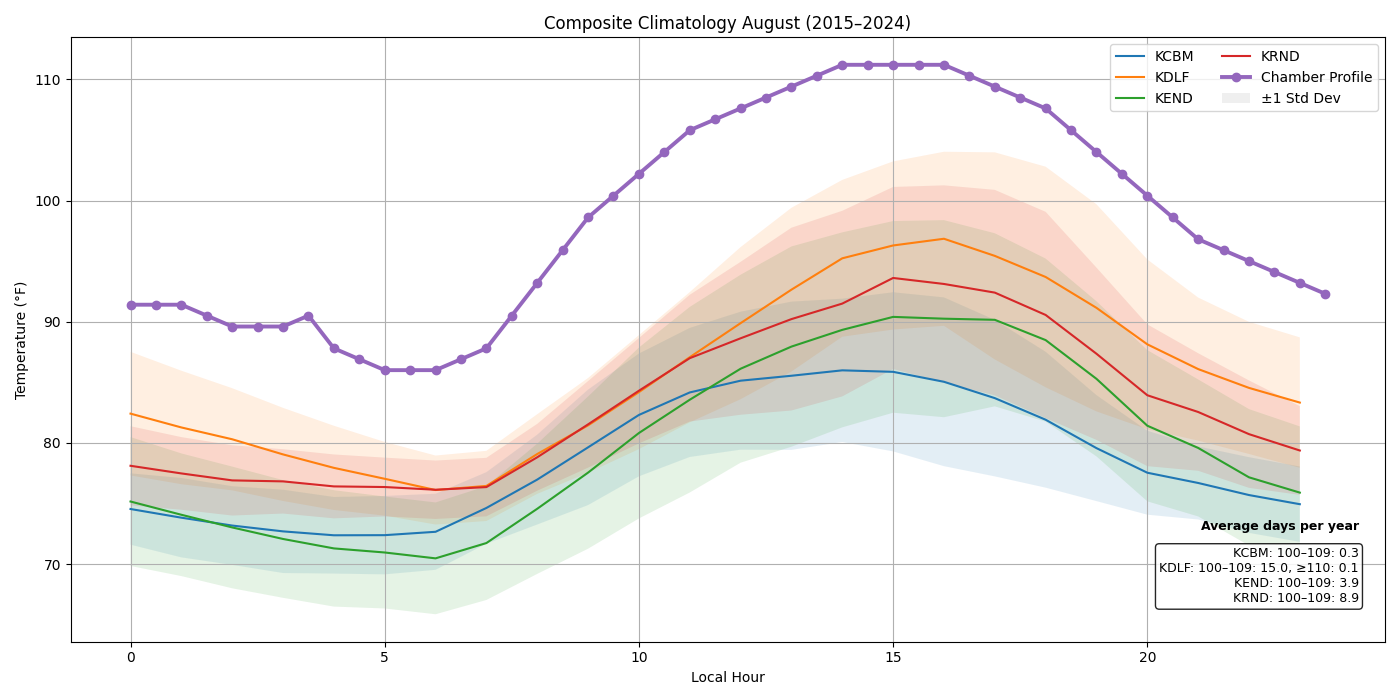
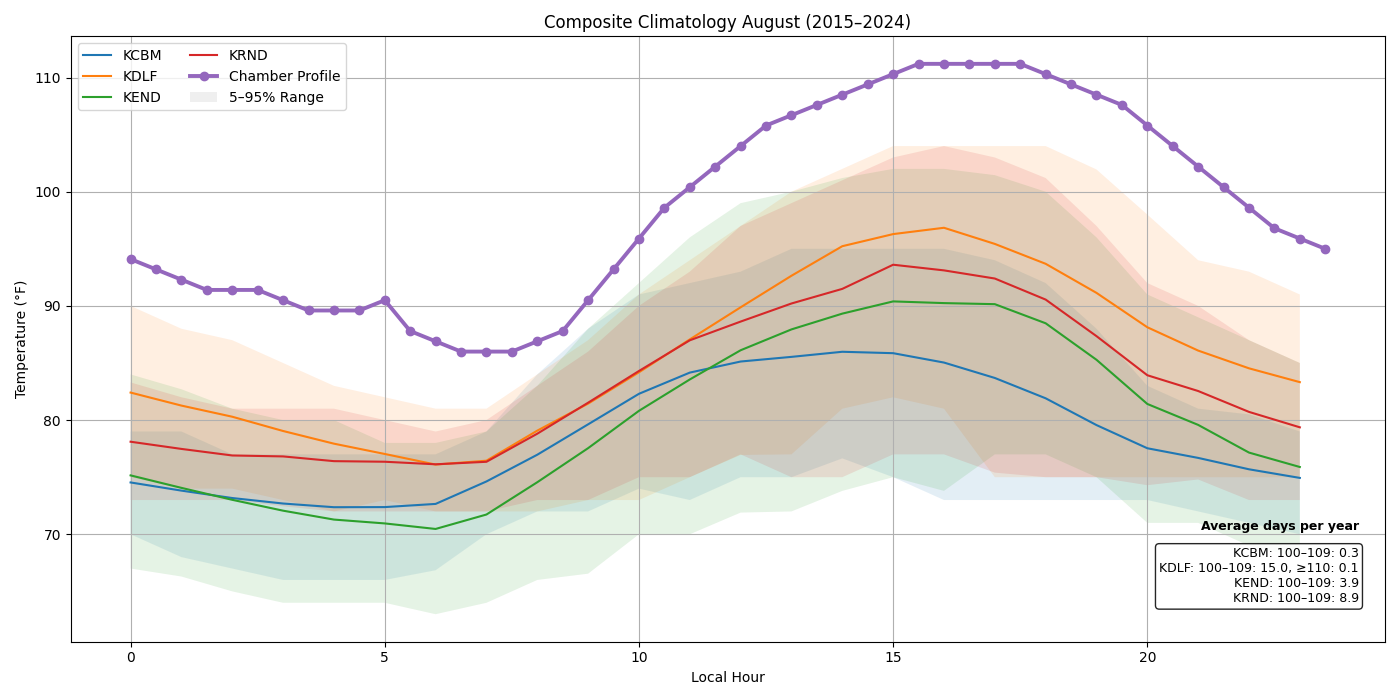
added 20f line

diff --git a/climo_overlay.py b/climo_overlay.py
@@ -93,6 +93,7 @@ def build_monthly_climatology(
         return pd.Series({
             'hot_100_109': ((dm >= 100) & (dm <= 109)).sum(),
             'hot_110p': (dm >= 110).sum(),
+            'cold_20': (dn <= 20).sum(),
             'cold_m5_m9': ((dn <= -5) & (dn >= -9)).sum(),
             'cold_m10p': (dn <= -10).sum(),
         })
@@ -166,6 +167,7 @@ def overlay_and_metrics(test: pd.DataFrame, climo_interp: pd.DataFrame, outdir: 
         labels = [
             ("100–109°F", extreme_days.get('hot_100_109', 0)),
             ("≥110°F", extreme_days.get('hot_110p', 0)),
+            ("≤20°F", extreme_days.get('cold_20', 0)),
             ("−5 to −9°F", extreme_days.get('cold_m5_m9', 0)),
             ("≤−10°F", extreme_days.get('cold_m10p', 0)),
         ]
@@ -228,6 +230,7 @@ def plot_composite_mean_std(
     shaded: str = "iqr",
     extremes_by_ident: dict[str, dict] | None = None,
     test: pd.DataFrame | None = None,
+    show_20f_line: bool = False,
 ):
     """
     Plot a single mean line per station. If average_only is False, also shade 25–75% (IQR) and 5–95% ranges.
@@ -274,6 +277,8 @@ def plot_composite_mean_std(
                     parts.append(f"100–109: {ex['hot_100_109']:.1f}")
                 if ex.get('hot_110p', 0):
                     parts.append(f"≥110: {ex['hot_110p']:.1f}")
+                if ex.get('cold_20', 0):
+                    parts.append(f"≤20: {ex['cold_20']:.1f}")
                 if ex.get('cold_m5_m9', 0):
                     parts.append(f"−5–−9: {ex['cold_m5_m9']:.1f}")
                 if ex.get('cold_m10p', 0):
@@ -284,14 +289,14 @@ def plot_composite_mean_std(
             ax = plt.gca()
             # Draw label ABOVE the box
             ax.text(
-                0.98, 0.18, "Average days per year",
+                0.98, 0.78, "Average days per year",
                 transform=ax.transAxes, ha='right', va='bottom', fontsize=9, fontweight='bold',
                 zorder=10, clip_on=False
             )
             # Then the box with ONLY the values
             txt = "\n".join(lines)
             ax.text(
-                0.98, 0.06, txt,
+                0.98, 0.66, txt,
                 transform=ax.transAxes, ha='right', va='bottom',
                 bbox=dict(boxstyle='round', facecolor='white', alpha=0.85),
                 fontsize=9,
@@ -311,6 +316,9 @@ def plot_composite_mean_std(
                     linewidth=2.8, marker="o",
                     label="Chamber Profile", zorder=3
                 )
+
+    if show_20f_line:
+        plt.hlines(20, xmin=0, xmax=24, colors="black", linestyles="--", linewidth=3.0, label="20°F", zorder=0)
 
     plt.xlabel("Local Hour")
     plt.ylabel("Temperature (°F)")
@@ -495,6 +503,8 @@ def main():
                     help="Composite mode: scan --data_dir for CSVs whose filenames start with a four-letter ID (e.g., KDLF_*.csv) and plot them")
     ap.add_argument("--data_dir", help="Directory to scan for station CSVs")
     ap.add_argument("--composite_test", help="Chamber test CSV to overlay on composite")
+    ap.add_argument("--line_20f", action="store_true",
+                    help="Add a 20°F reference line to composite plots")
     ap.add_argument("--average_only", action="store_true", help="Draw mean lines only (hide ±1 SD bands)")
     ap.add_argument("--shade", choices=["iqr", "std", "p95", "none"], default="iqr",
                     help="Shaded band style for climatology: IQR (25–75%), Std Dev (±1σ), 5–95%, or none (default: iqr)")
@@ -595,6 +605,7 @@ def main():
             shaded=args.shade,
             extremes_by_ident=extremes_by_ident,
             test=test_df_for_composite,
+            show_20f_line=args.line_20f,
         )
 
     else:

diff --git a/gui_app.py b/gui_app.py
@@ -662,6 +662,10 @@ def climo_overlay_tab(notebook):
     for val, label in [("iqr", "IQR (25–75%)"), ("std", "±1 Std Dev"), ("p95", "5–95%"), ("none", "None")]:
         tk.Radiobutton(shade_row, text=label, variable=shade_var, value=val).pack(side=tk.LEFT, padx=4)
 
+    # Optional 20°F reference line
+    line20_var = tk.BooleanVar(value=False)
+    tk.Checkbutton(tab, text="Show 20°F reference line", variable=line20_var).pack(anchor="w")
+
     # Optional chamber test CSV
     tk.Label(tab, text="Chamber Test CSV (optional, hour,temp):").pack(anchor="w")
     test_entry = tk.Entry(tab, width=50)
@@ -735,6 +739,8 @@ def climo_overlay_tab(notebook):
                 cmd += ['--composite', '--stations', ','.join(station_ids)]
                 if test_csv:
                     cmd += ['--composite_test', test_csv]
+                if line20_var.get():
+                    cmd += ['--line_20f']
             else:
                 cmd += ['--station', ','.join(station_ids)]
                 if test_csv:
